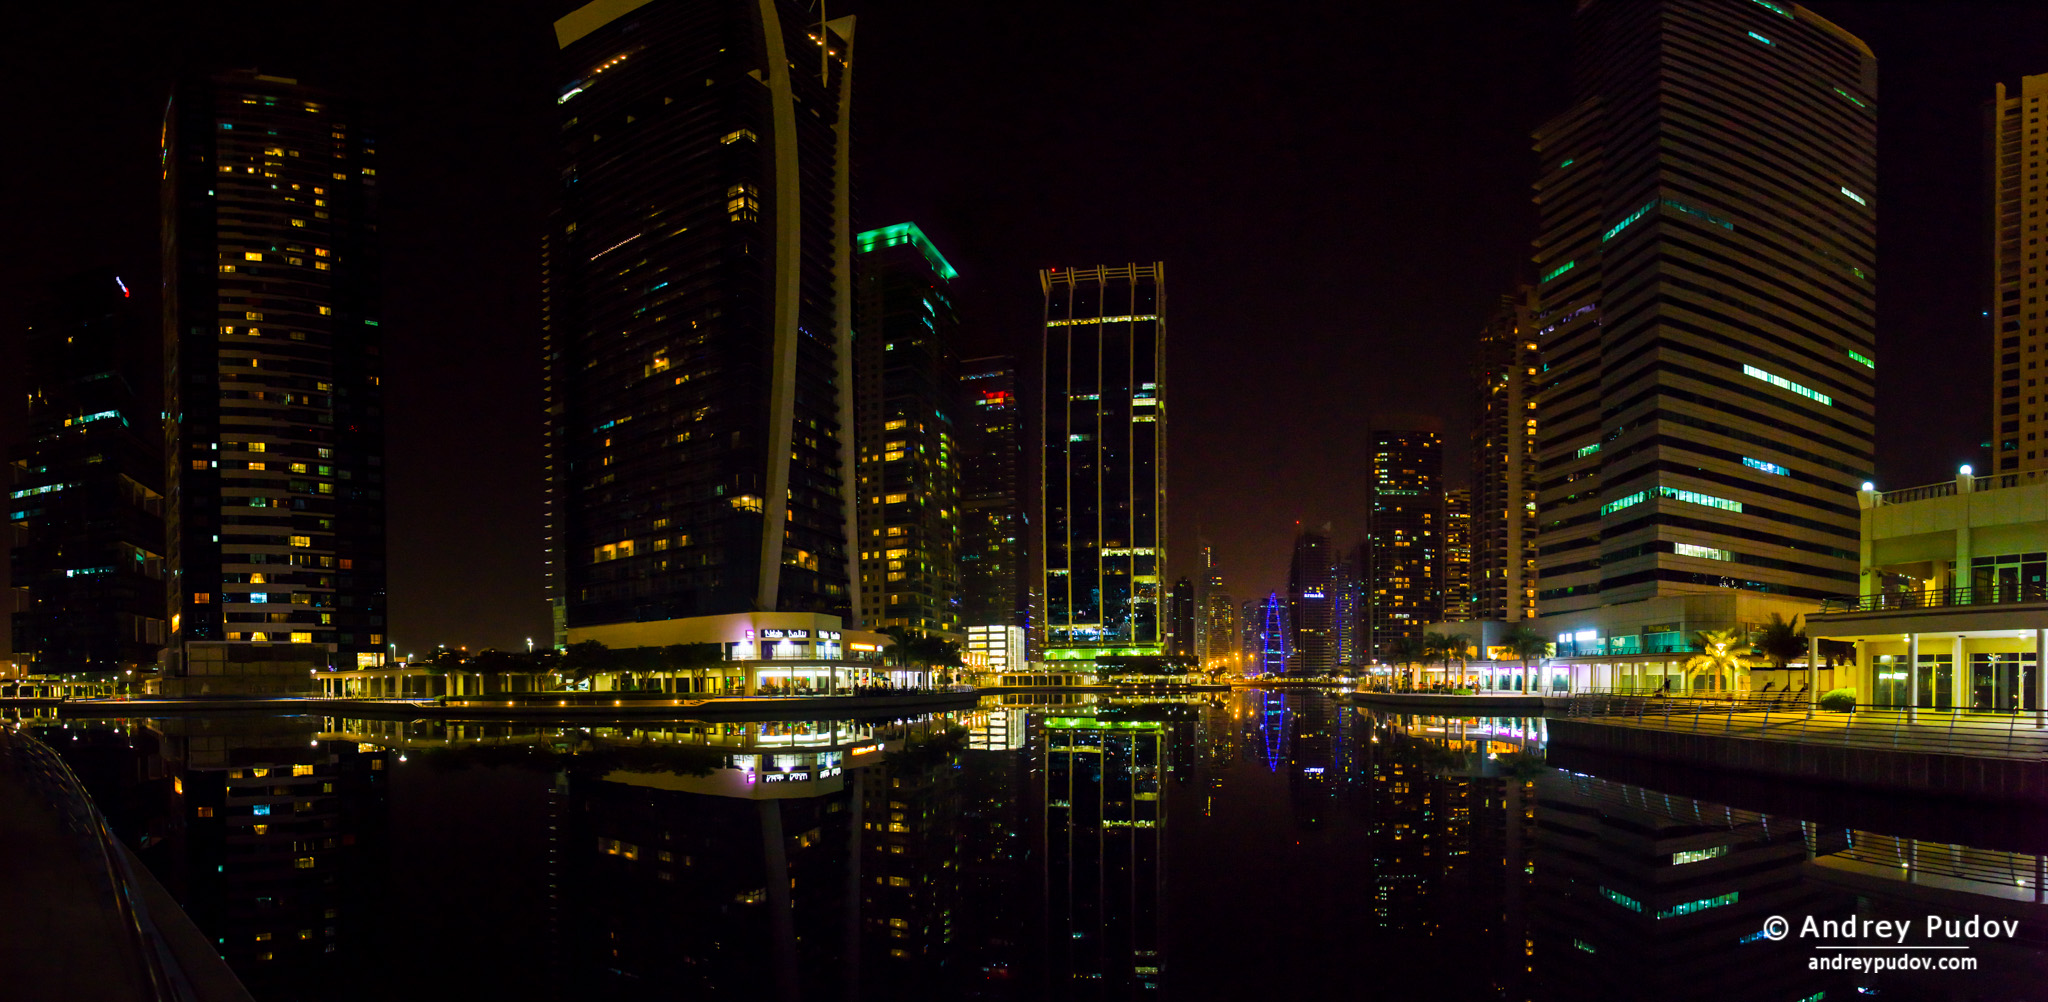
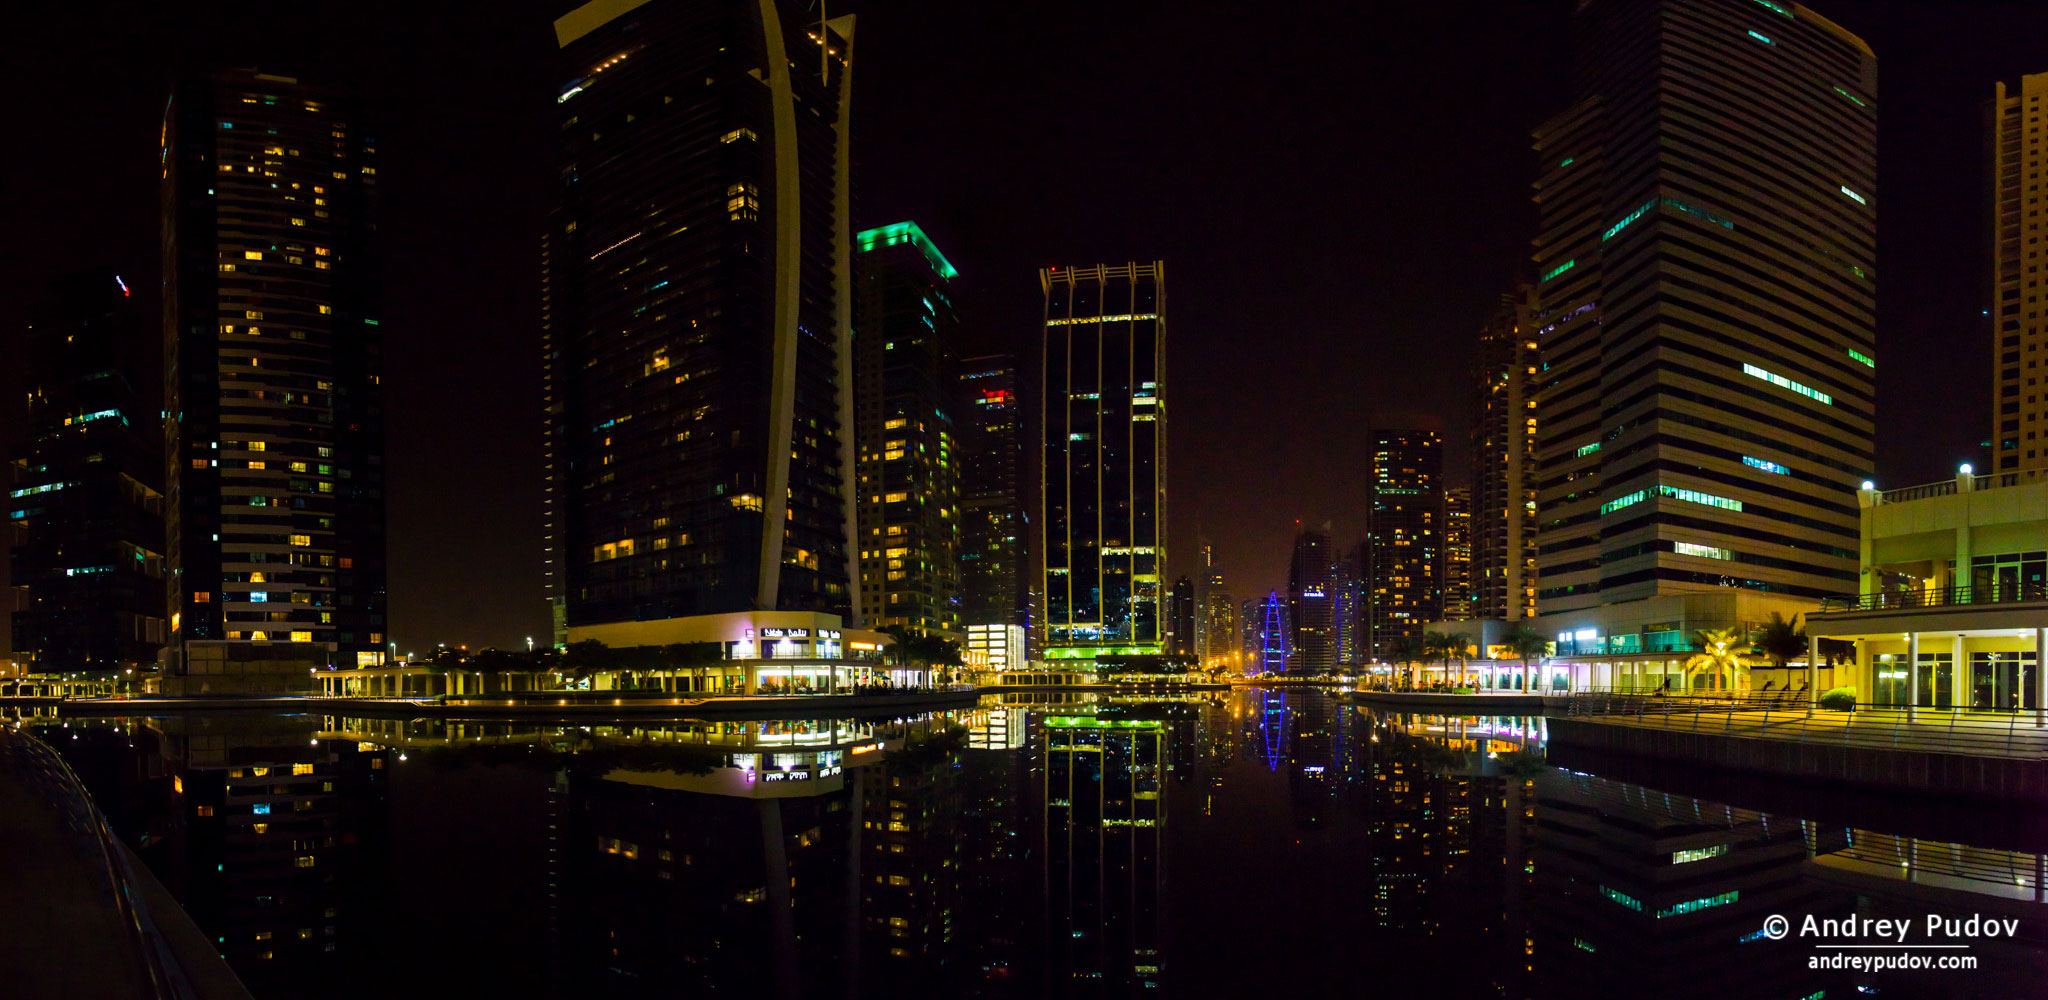
Carousel images has been optimized

diff --git a/index.html b/index.html
@@ -115,6 +115,16 @@
                                 </div>
                             </div>
                         </div>
+                        <div class="item">
+                            <img src="images/carousel/the-colorful-winter.jpg" />
+                            <div class="container">
+                                <div class="carousel-caption">
+                                    <h1>One more for good measure.</h1>
+                                    <p>Cras justo odio, dapibus ac facilisis in, egestas eget quam. Donec id elit non mi porta gravida at eget metus. Nullam id dolor id nibh ultricies vehicula ut id elit.</p>
+                                    <p><a class="btn btn-lg btn-primary" href="#" role="button">Browse gallery</a></p>
+                                </div>
+                            </div>
+                        </div>
                     </div>
                     <!-- carousel controls
                     <a class="left carousel-control" href="#homeCarousel" data-slide="prev">
